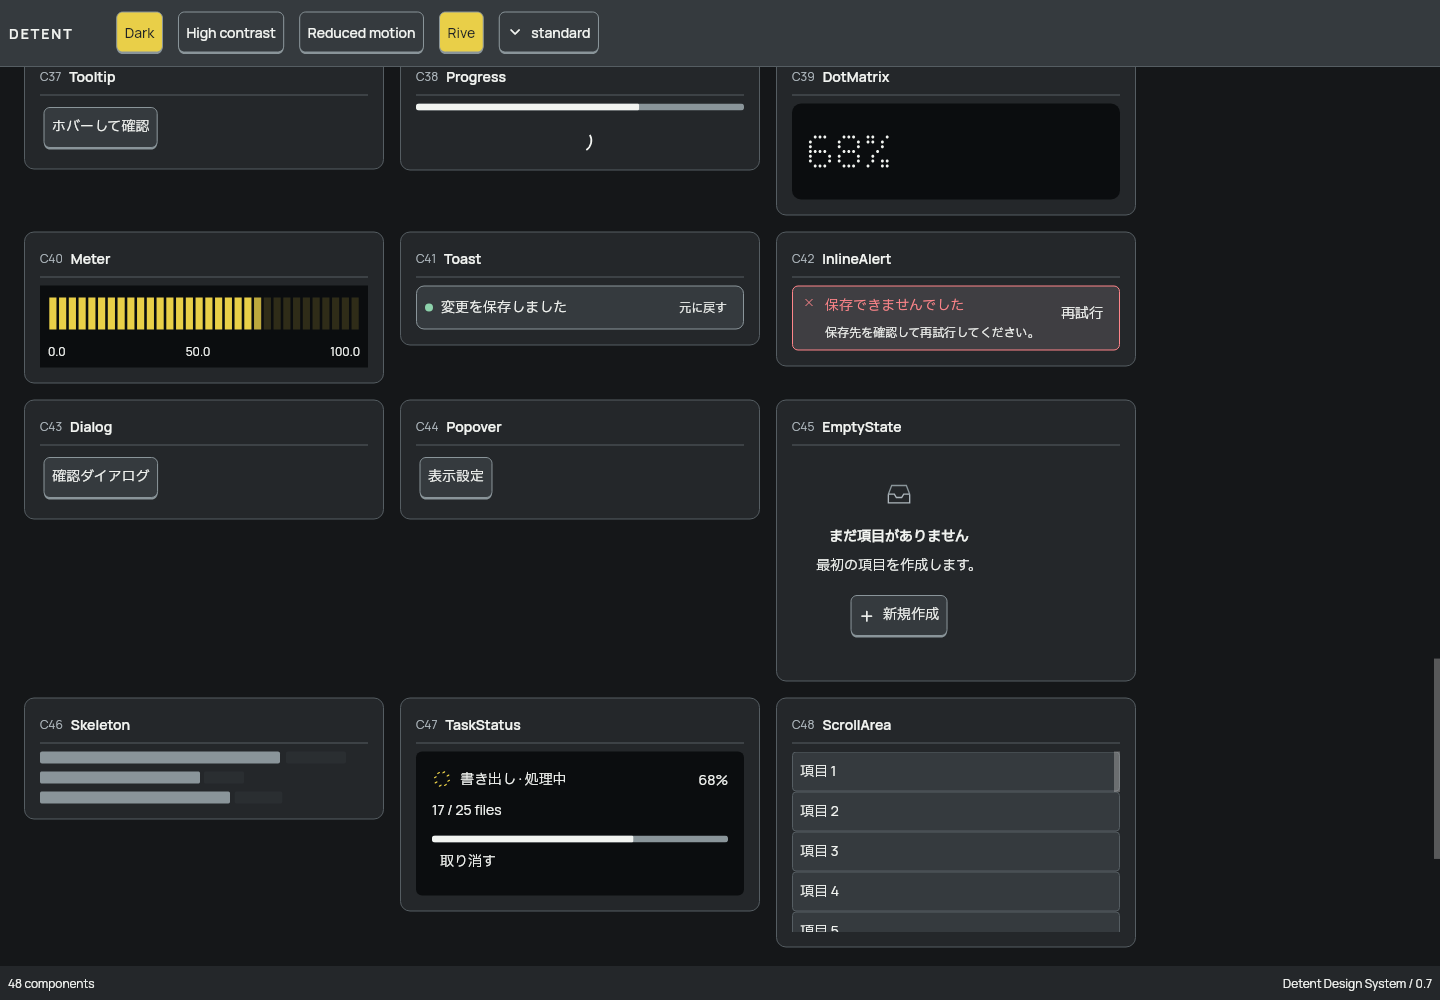
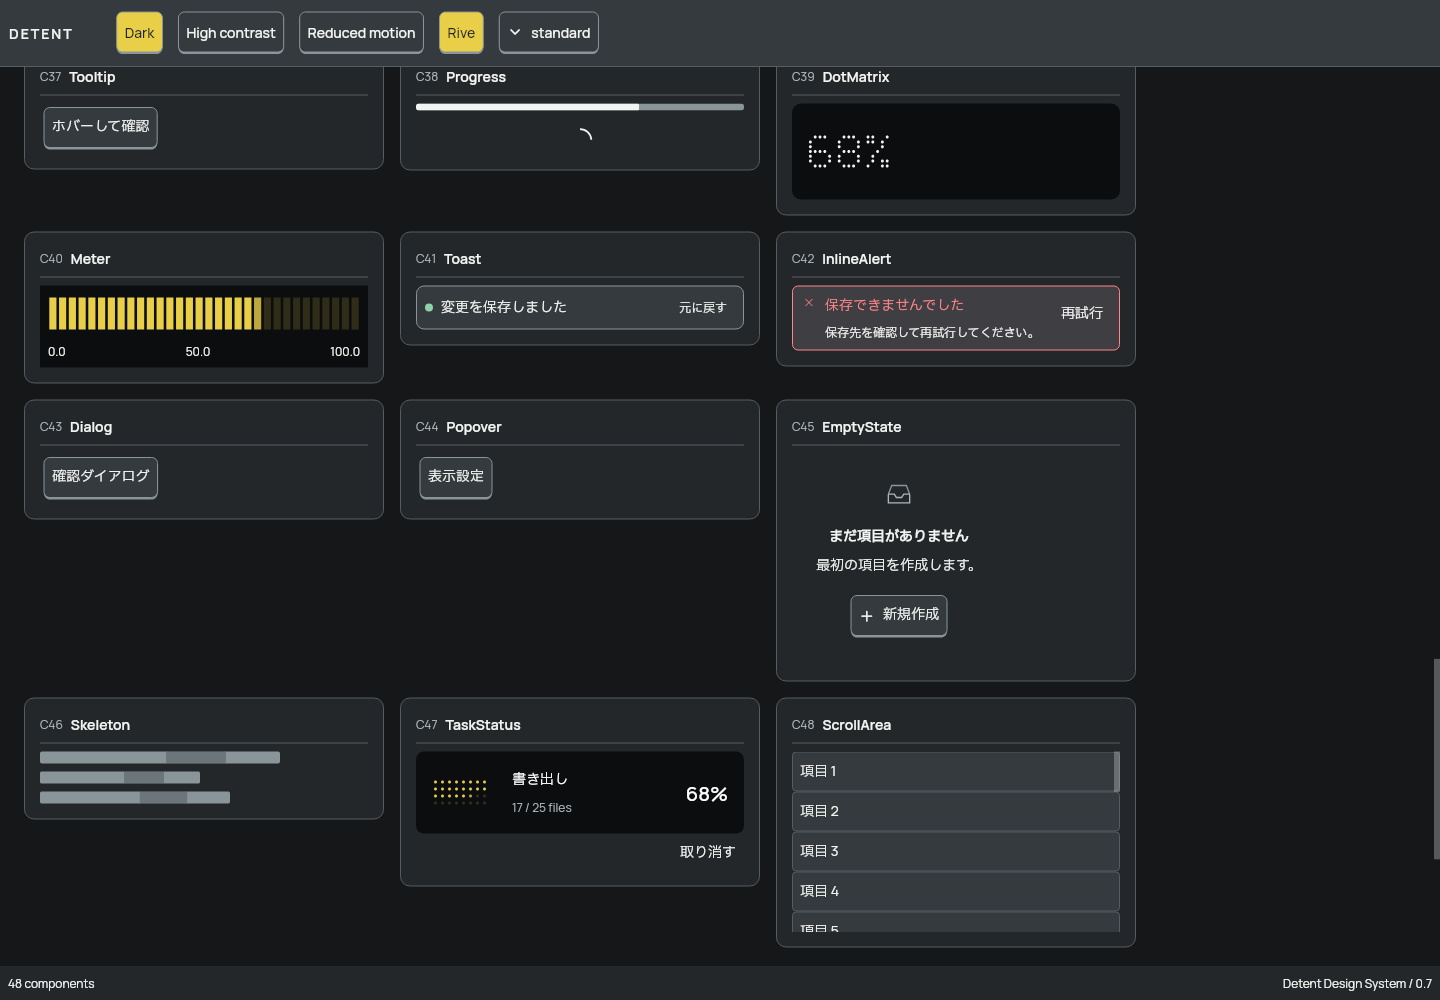
docs(ui): refresh visual previews and validation records

Changed region(s): [[0.2812, 0.775, 0.5312, 0.899], [0.0938, 0.744, 0.1562, 0.806], [0.4688, 0.775, 0.5, 0.806]]

diff --git a/DESIGN_SYSTEM.md b/DESIGN_SYSTEM.md
@@ -3,6 +3,7 @@
 
 > 実装追記（0.5.0）: C01–C48のFlutter Widget、トークン生成、16 Riveアートボード、ギャラリーを追加しました。以下はデザイン版0.4策定時の記録です。現在のAPI・実装範囲・検証上の制限はREADME.mdを参照してください。
 > 実装追記（0.6.0）: 通常の操作部へRiveを既定接続。39アートボード、可変数字、画面外／背景停止、reduced motion代替描画、Rive比較ギャラリーを追加。APIと検証範囲はREADME.mdを参照してください。
+> 実装追記（0.7.0）: Material Widget依存を除去しWidgetsAppのみで利用可能にしました。Select / ComboBoxの候補パネルを共通化し、Keycapにunits（1u / 1.5u / 2u等）を追加。使用例と移行点はREADME.mdを参照してください。
 版: 0.4 / 2026-10-30 / 状態: 設計基盤ドラフト
 
 ## 1. システムの目的
